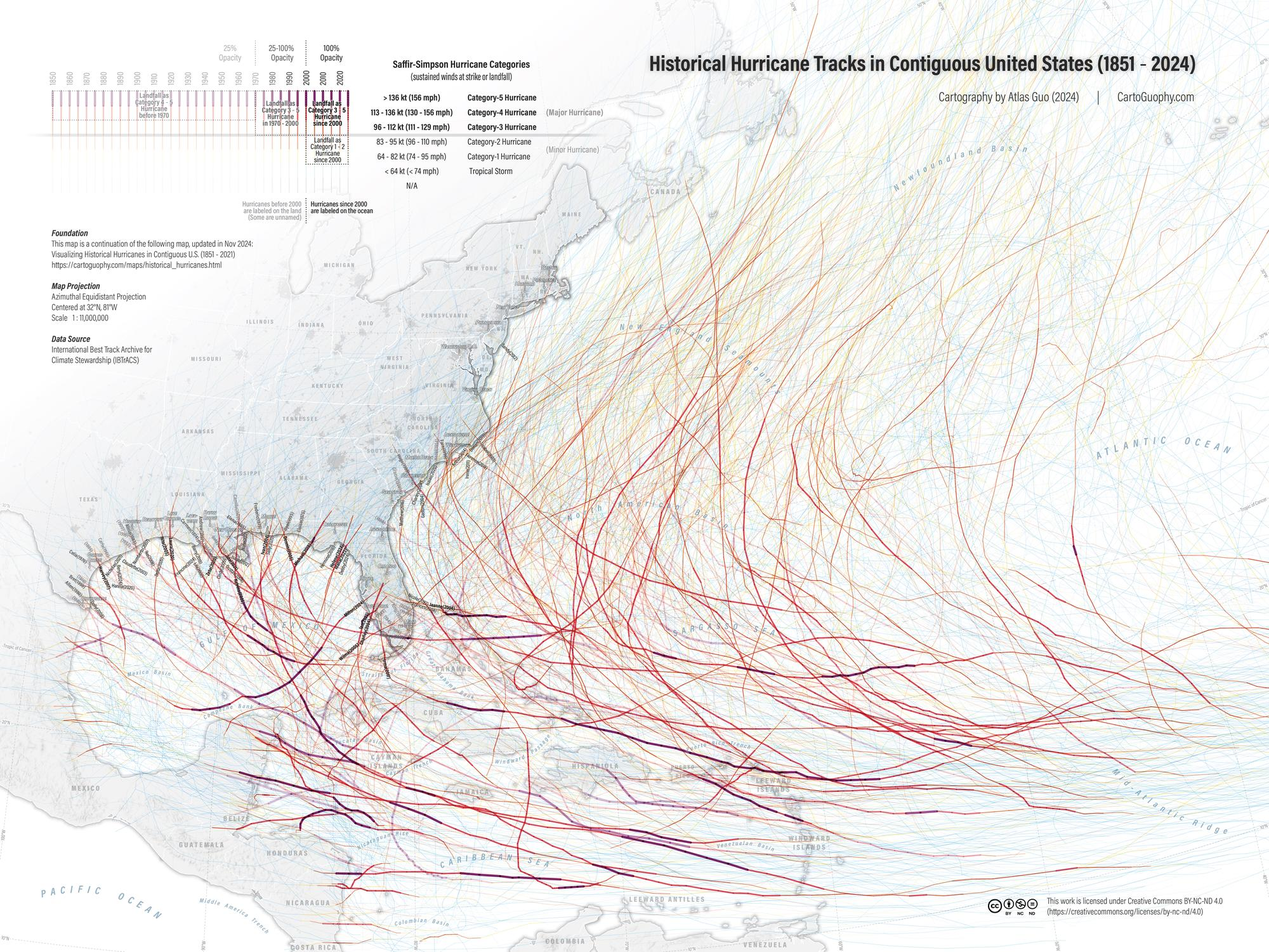
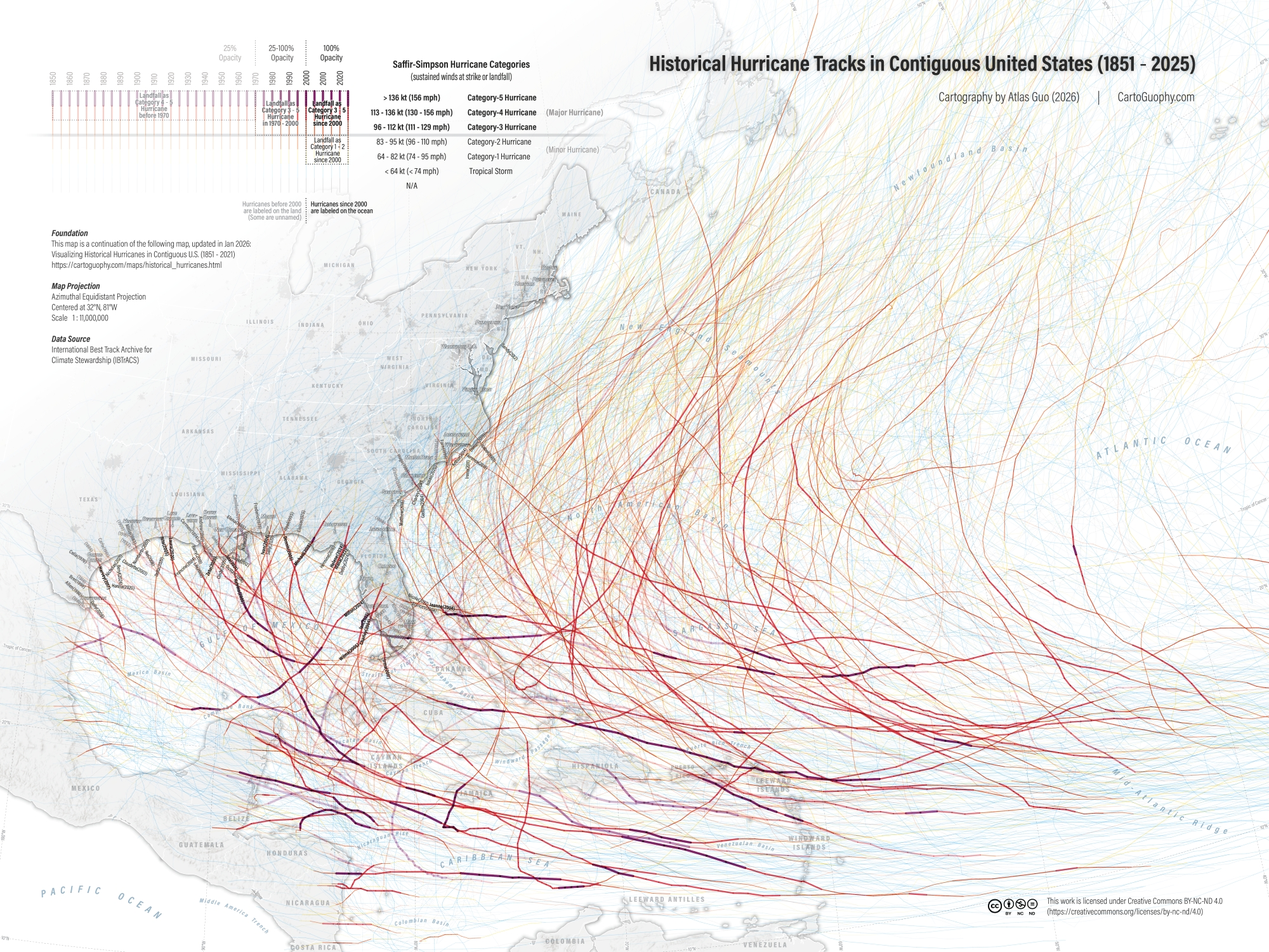
updating hurricane map

diff --git a/index.html b/index.html
@@ -119,19 +119,18 @@
             <div class="modal-body">
               <!-- Project Details Go Here -->
               <h2 class="text-uppercase">OPEN TO WORK</h2>
-              <h5 class="text-muted">Actively seeking full-time opportunities as a Cartographer</h5>
+              <h5 class="text-muted">Actively seeking full-time opportunities</h5>
               <br>
               <a href="/assets/portfolio_hexagon_2025.jpg" target="_blank"><img class="img-fluid d-block mx-auto"
                   src="../assets/portfolio_hexagon_2025.jpg" alt="" /></a>
               <p>
-              <h6>The mosaic image above showcases my recently created <a href="/portfolio.html"
-                  target="_blank"><b>maps</b></a>.</h6>
+              <h6>The mosaic image above showcases my recently created maps.</h6>
               <br>
               <p>
-                🌎 I’m actively seeking full-time opportunities as a Cartographer (on-site or remote). With rich
-                experience and extensive training in cartography and GIS, my work has been widely recognized — more
-                details can be found in my portfolio (<a href="https://cartoguophy.com/"
-                  target="_blank">CartoGuophy.com</a>).
+                🌎 I’m actively seeking full-time opportunities as a Cartographer (on-site or remote) focused on visual
+                storytelling, geospatial data analysis and visualization. With rich
+                experience and extensive training, my work has been widely recognized — more
+                details can be found in the <a href="/portfolio.html" target="_blank">Portfolio</a> page.
                 <br><br>
                 🎓 During my Geography Ph.D. at UW–Madison, I’ve been working at the intersection of GeoAI and natural
                 hazard applications in the Spatial Computing & Data Mining (<a href="https://scdm.geography.wisc.edu/"

diff --git a/maps/historical_hurricanes.html b/maps/historical_hurricanes.html
@@ -206,6 +206,10 @@
                 hurricanes: Beryl (Juy), Debby (Aug), Francine (Sep), Helene (Sep), and Milton
                 (Oct), in 2024.
               </p>
+              <p>The map below is further updated with the 2025 data. The 2025 Atlantic hurricane
+                season saw no major hurricane make landfall in the United States, but Jamaica was severely impacted by
+                Hurricane Melissa (under this map’s labeling rules, the storm name is not shown, but its tracks are
+                clearly displayed).</p>
               <img class="img-fluid d-block mx-auto" src="historical_hurricane_tracks_screen.jpg" alt="" />
               <a href="historical_hurricane_tracks_screen.jpg" target="_blank">Download Compressed Image</a>
               <br>
